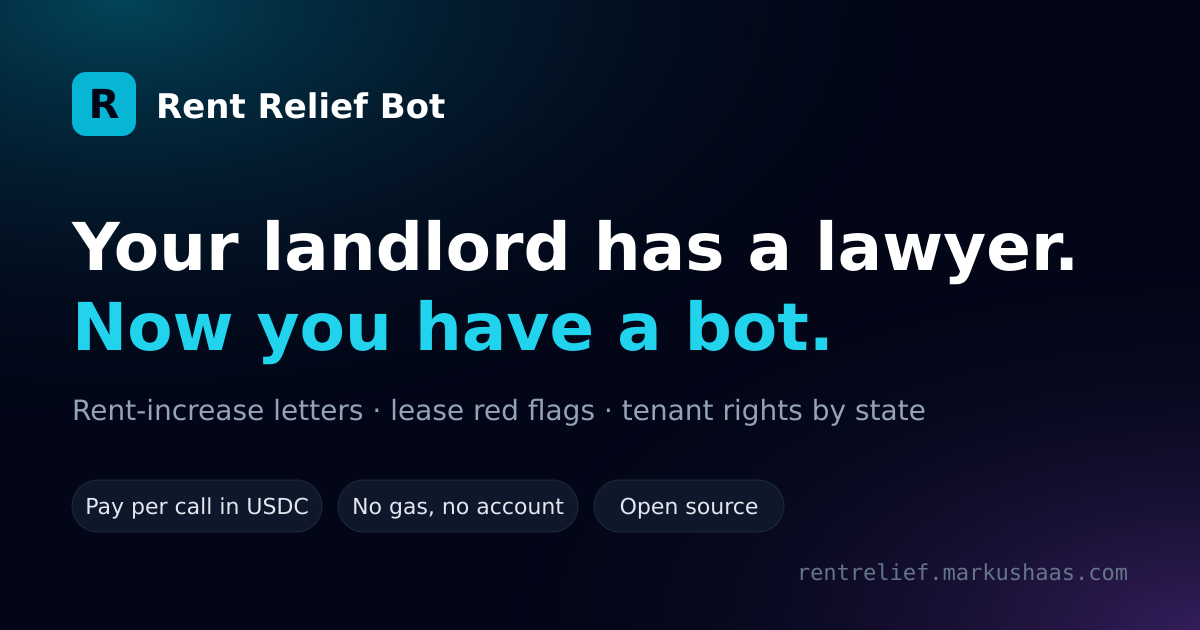
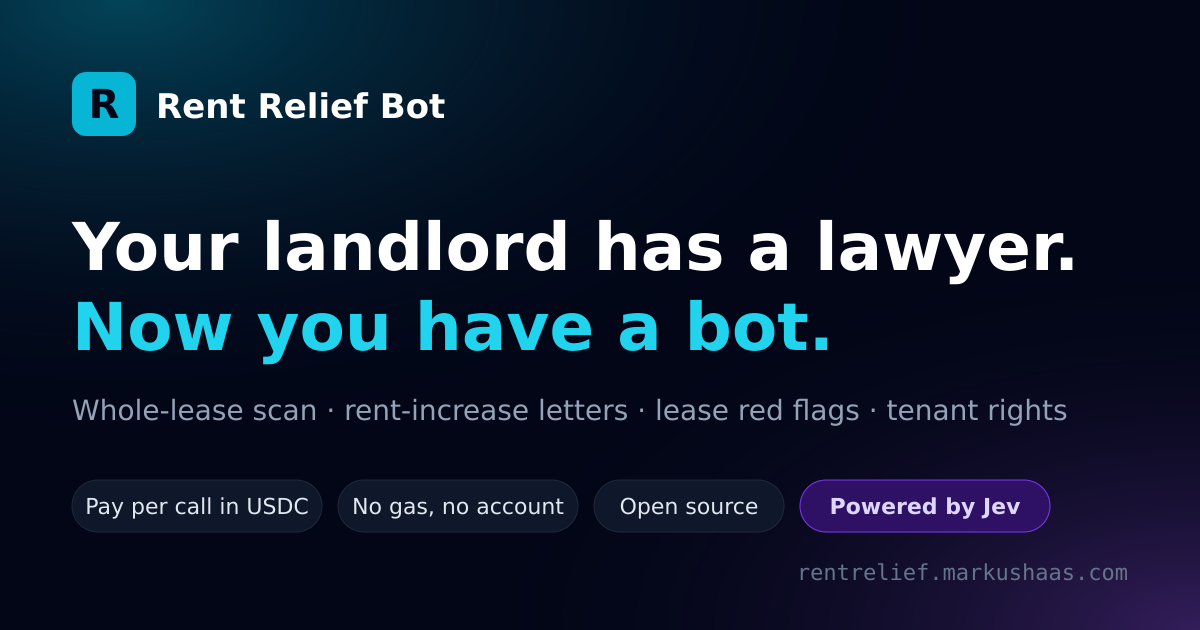
Site: lead with Jev
Hero pill, nav link, a "Powered by Jev" section explaining why a model that
returns typed decisions instead of text matters for a lease scan, Jev on the
OG card and meta description, and a Jev headline in the README.

Changed region(s): [[0.0617, 0.6333, 0.8942, 0.6937], [0.6475, 0.754, 0.8942, 0.8444]]

diff --git a/web/src/components/landing/PoweredByJev.tsx b/web/src/components/landing/PoweredByJev.tsx
@@ -1,0 +1,57 @@
+import { siteConfig } from "../../site.config";
+import { SectionTitle } from "../ui";
+
+const POINTS = [
+  {
+    t: "It can't make up a law",
+    d: "Jev doesn't generate text. It answers typed questions about each clause with a probability and a confidence. There is no sentence for a statute number to appear in.",
+  },
+  {
+    t: "Whole lease in about a second",
+    d: "Every clause is a 70 to 500 ms decision, run in parallel. A 40-clause lease comes back ranked before a chat model would finish its first paragraph.",
+  },
+  {
+    t: "Ten flags, one score, per clause",
+    d: "Lockout without court, waived rights, penalty fees, tenant pays repairs, auto-renewal, entry without notice, and more, plus a 0 to 4 risk score. Your code, not a prompt, decides what to show.",
+  },
+  {
+    t: "Cents, not dollars",
+    d: "Input is $0.042 per million tokens and output is free. A whole lease costs about two cents to scan, so the $0.50 price is honest margin, not a subsidy.",
+  },
+];
+
+export function PoweredByJev() {
+  return (
+    <section id="jev" className="scroll-mt-20 py-14">
+      <div className="rounded-3xl border border-violet-400/20 bg-gradient-to-br from-violet-500/10 via-transparent to-brand-500/5 p-6 sm:p-8">
+        <SectionTitle
+          kicker="Powered by Jev"
+          title="The lease scan runs on a model that doesn't talk"
+          sub="Jev is TypeSafe's System One model: state in, typed decisions out. We were early to put it in front of tenants. The letter tools still write with Claude; the scan asks Jev."
+        />
+        <div className="grid gap-4 sm:grid-cols-2">
+          {POINTS.map((p) => (
+            <div key={p.t} className="rounded-2xl border border-white/10 bg-slate-950/40 p-5">
+              <div className="font-semibold text-white">{p.t}</div>
+              <p className="mt-1 text-sm text-slate-400">{p.d}</p>
+            </div>
+          ))}
+        </div>
+        <div className="mt-6 flex flex-wrap items-center gap-3 text-sm">
+          <a href="#lease-scan" className="rounded-xl bg-violet-500 px-4 py-2.5 font-semibold text-white hover:bg-violet-400">
+            Scan a lease with Jev
+          </a>
+          <a href={siteConfig.jevUrl} target="_blank" rel="noreferrer" className="text-slate-300 hover:text-white">
+            ~typesafe/jev-latest on OpenRouter →
+          </a>
+          <a href={siteConfig.typesafeUrl} target="_blank" rel="noreferrer" className="text-slate-300 hover:text-white">
+            typesafe.ai →
+          </a>
+          <a href={`${siteConfig.githubUrl}/blob/main/x402/lease-scan/index.ts`} target="_blank" rel="noreferrer" className="text-slate-300 hover:text-white">
+            The questions we ask it →
+          </a>
+        </div>
+      </div>
+    </section>
+  );
+}

diff --git a/web/src/components/landing/Hero.tsx b/web/src/components/landing/Hero.tsx
@@ -7,8 +7,16 @@ const host = new URL(siteConfig.siteUrl).host;
 export function Hero() {
   return (
     <section id="top" className="pt-14 pb-10 sm:pt-20 sm:pb-14">
-      <div className="mb-4 inline-flex items-center gap-2 rounded-full border border-white/10 bg-white/5 px-3 py-1 text-xs text-slate-300">
-        <span className="h-1.5 w-1.5 rounded-full bg-emerald-400" /> Live on Base · pay per call · works with your AI agent · open source
+      <div className="mb-4 flex flex-wrap items-center gap-2">
+        <div className="inline-flex items-center gap-2 rounded-full border border-white/10 bg-white/5 px-3 py-1 text-xs text-slate-300">
+          <span className="h-1.5 w-1.5 rounded-full bg-emerald-400" /> Live on Base · pay per call · works with your AI agent · open source
+        </div>
+        <a
+          href="#jev"
+          className="inline-flex items-center gap-2 rounded-full border border-violet-400/40 bg-violet-500/10 px-3 py-1 text-xs font-semibold text-violet-200 hover:bg-violet-500/20"
+        >
+          <span className="h-1.5 w-1.5 rounded-full bg-violet-400" /> New: whole-lease scan, powered by Jev →
+        </a>
       </div>
       <h1 className="max-w-3xl text-4xl font-black tracking-tight text-white sm:text-6xl">
         Your landlord has a lawyer. <span className="text-brand-400">Now you have a bot.</span>

diff --git a/web/index.html b/web/index.html
@@ -15,13 +15,13 @@
     <meta property="og:type" content="website" />
     <meta property="og:url" content="%VITE_SITE_URL%/" />
     <meta property="og:title" content="Rent Relief Bot" />
-    <meta property="og:description" content="Rent-increase letters, lease red flags and tenant rights, paid per call in USDC on Base. Open source." />
+    <meta property="og:description" content="Whole-lease scan powered by Jev, rent-increase letters, lease red flags and tenant rights. Paid per call in USDC on Base. Open source." />
     <meta property="og:image" content="%VITE_SITE_URL%/og.png" />
     <meta property="og:image:width" content="1200" />
     <meta property="og:image:height" content="630" />
     <meta name="twitter:card" content="summary_large_image" />
     <meta name="twitter:title" content="Rent Relief Bot" />
-    <meta name="twitter:description" content="Rent-increase letters, lease red flags and tenant rights, paid per call in USDC on Base. Open source." />
+    <meta name="twitter:description" content="Whole-lease scan powered by Jev, rent-increase letters, lease red flags and tenant rights. Paid per call in USDC on Base. Open source." />
     <meta name="twitter:image" content="%VITE_SITE_URL%/og.png" />
   </head>
   <body class="bg-slate-950 text-slate-100 antialiased">

diff --git a/web/src/App.tsx b/web/src/App.tsx
@@ -2,6 +2,7 @@ import { Header } from "./components/Header";
 import { Hero } from "./components/landing/Hero";
 import { ToolTabs } from "./components/tools/ToolTabs";
 import { HowItWorks } from "./components/landing/HowItWorks";
+import { PoweredByJev } from "./components/landing/PoweredByJev";
 import { Buyback } from "./components/landing/Buyback";
 import { BringYourAgent } from "./components/landing/BringYourAgent";
 import { Footer } from "./components/landing/Footer";
@@ -15,6 +16,7 @@ export default function App() {
         <ToolTabs />
         <BringYourAgent />
         <HowItWorks />
+        <PoweredByJev />
         <Buyback />
         <Footer />
       </main>

diff --git a/web/src/components/landing/Footer.tsx b/web/src/components/landing/Footer.tsx
@@ -11,7 +11,7 @@ export function Footer() {
           </p>
           <p>
             <strong className="text-slate-300">Privacy.</strong> This site has no backend and no analytics. What you type is sent to the tool endpoint,
-            processed by an LLM gateway, and returned. Do not include social security numbers, bank details or other secrets.
+            processed by a model (Claude for the letters, Jev for the lease scan), and returned. Do not include social security numbers, bank details or other secrets.
           </p>
         </div>
         <div className="flex flex-col gap-1 text-slate-400">

diff --git a/web/src/components/Header.tsx b/web/src/components/Header.tsx
@@ -12,6 +12,7 @@ export function Header() {
         <nav className="hidden items-center gap-5 text-sm text-slate-400 md:flex">
           <a href="#tools" className="hover:text-white">Tools</a>
           <a href="#how" className="hover:text-white">How it works</a>
+          <a href="#jev" className="hover:text-white">Jev</a>
           <a href="#rrb" className="hover:text-white">$RRB</a>
           <a href="#agents" className="hover:text-white">Bring your agent</a>
           <a href={siteConfig.githubUrl} target="_blank" rel="noreferrer" className="hover:text-white">GitHub</a>

diff --git a/web/src/site.config.ts b/web/src/site.config.ts
@@ -24,6 +24,8 @@ export const siteConfig = {
   buyRrbUrl:
     (env.VITE_BUY_RRB_URL as string | undefined) ??
     `https://bankr.bot/terminal/trade?out=${rrbAddress}&chain=base`,
+  jevUrl: "https://openrouter.ai/~typesafe/jev-latest",
+  typesafeUrl: "https://typesafe.ai",
   buybackLedgerUrl: `${githubUrl}/blob/main/scripts/buyback-state.json`,
   baseRpcUrl: env.VITE_BASE_RPC_URL as string | undefined,
   cbWalletPreference: ((env.VITE_CB_WALLET_PREFERENCE as string | undefined) ?? "eoaOnly") as

diff --git a/README.md b/README.md
@@ -2,6 +2,10 @@
 
 **Your landlord has a lawyer. Now you have a bot.**
 
+**New: a whole-lease scan powered by [Jev](https://typesafe.ai), TypeSafe's System One model, via
+[OpenRouter](https://openrouter.ai/~typesafe/jev-latest).** Paste a lease, get every clause scored and
+ranked worst first in about a second. Jev returns typed decisions, not text, so it cannot invent a law.
+
 Four tenant tools, paid per call in USDC on Base through [x402](https://x402.org). No account,
 no subscription, no gas. Humans use them at **[rentrelief.markushaas.com](https://rentrelief.markushaas.com)**.
 AI agents use them by being pointed at the same domain: it publishes a skill, an OpenAPI
